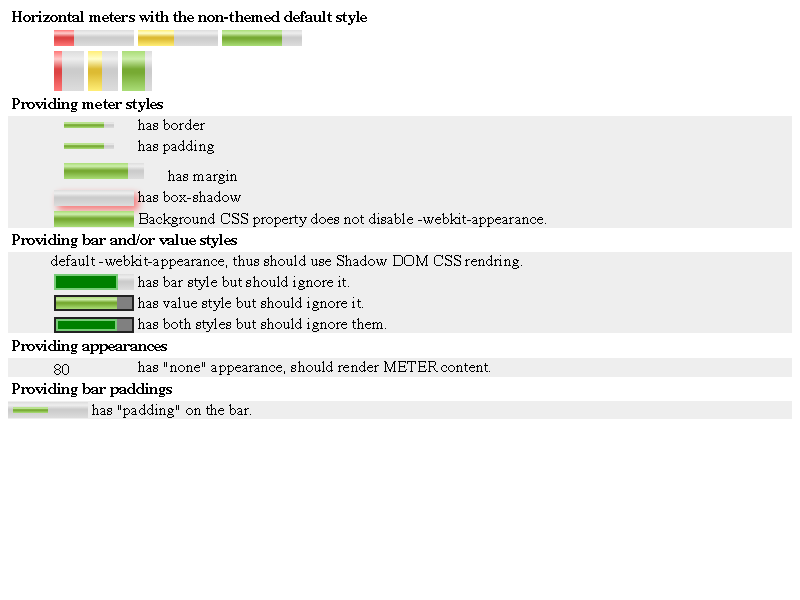
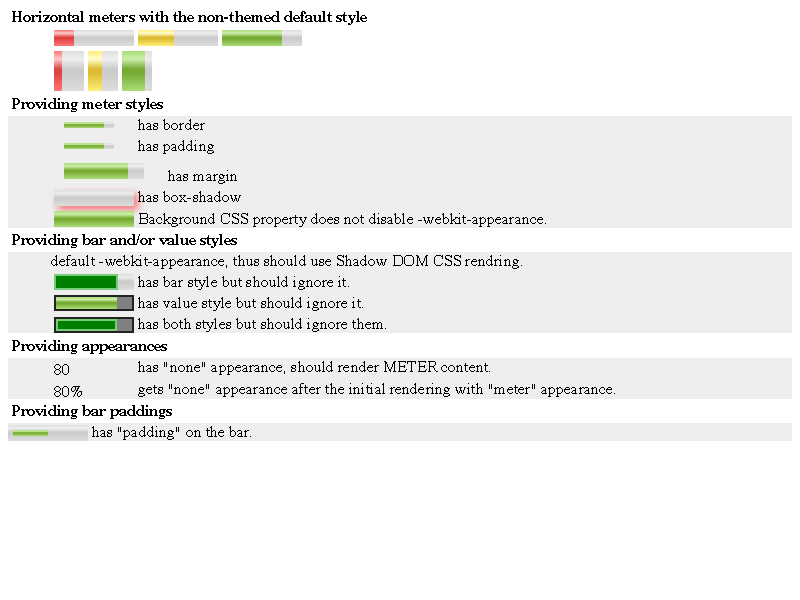
Introduce :-internal-shadow-host-has-appearance pseudo class, and apply it to METER element.
:-internal-shadow-host-has-appearance pseudo class matches to a shadow element if
  - it is in User-Agent ShadowRoot, and
  - its shadow host has -webkit-appearance value other than "none".
This class is available only in UA stylesheets.

Also, this CL adds PseudoBlinkInternalElement.  It's similar to
PseudoWebKitCustomElement.  Their differences are:
 - Pseudo ID of PseudoBlinkInternalElement starts with "-internal-".
 - ::-internal-* selectors are available only in UA stylesheets.

METER's fallback element uses PseudoBlinkInternalElement in order to avoid to
expose new vendor-specific elements.

This CL has no user-visible behavior changes.

BUG=609669

Review-Url: https://codereview.chromium.org/1958073002
Cr-Original-Commit-Position: refs/heads/master@{#393779}
Cr-Mirrored-From: https://chromium.googlesource.com/chromium/src
Cr-Mirrored-Commit: 19b50f20c2da2f0f3efddd91e3df57ba4a4e8b15

Changed region(s): [[0.0, 0.63, 0.75, 0.75]]

diff --git a/WebKit/LayoutTests/fast/dom/HTMLMeterElement/meter-styles.html b/WebKit/LayoutTests/fast/dom/HTMLMeterElement/meter-styles.html
@@ -1,9 +1,6 @@
+<!DOCTYPE html>
 <html>
 <head>
-<script>
-if (window.testRunner)
-    testRunner.notifyDone();
-</script>
 <style>
   meter.tall { width: 30px; height: 40px; }
   ul, h2, p { margin: 0.2em; }
@@ -48,6 +45,7 @@ if (window.testRunner)
   <div style="background-color: #eee">
   <ul>
     <li><meter style="-webkit-appearance: none" min="0" max="100" low="30" high="60" optimum="100" value="80" >80</meter> has "none" appearance, should render METER content.</li> 
+    <li><meter id="appearanceNoneLater" min="0" max="100" low="30" high="60" optimum="100" value="80" >80%</meter> gets "none" appearance after the initial rendering with "meter" appearance.</li>
   </ul>
   </div>
   <h2>Providing bar paddings</h2>
@@ -55,5 +53,11 @@ if (window.testRunner)
     <meter id="bar-paddings" min="0" max="100" low="30" high="60" optimum="50" value="50" ></meter> has "padding" on the bar.
   </ul>
   </div>
+<script>
+var noneLater = document.getElementById('appearanceNoneLater');
+noneLater.offsetLeft; // Force layout.
+noneLater.setAttribute('style', '-webkit-appearance:none');
+noneLater.offsetLeft; // Force layout.
+</script>
 </body>
 </html>

diff --git a/WebKit/Source/core/css/html.css b/WebKit/Source/core/css/html.css
@@ -851,9 +851,18 @@ meter {
 meter::-webkit-meter-inner-element {
     -webkit-appearance: inherit;
     box-sizing: inherit;
+    display: none;
     -webkit-user-modify: read-only !important;
     height: 100%;
     width: 100%;
+}
+
+meter::-webkit-meter-inner-element:-internal-shadow-host-has-appearance {
+    display: block;
+}
+
+meter::-internal-fallback:-internal-shadow-host-has-appearance {
+    display: none;
 }
 
 meter::-webkit-meter-bar {

diff --git a/WebKit/Source/core/css/CSSSelector.cpp b/WebKit/Source/core/css/CSSSelector.cpp
@@ -252,6 +252,7 @@ PseudoId CSSSelector::pseudoId(PseudoType type)
     case PseudoInRange:
     case PseudoOutOfRange:
     case PseudoWebKitCustomElement:
+    case PseudoBlinkInternalElement:
     case PseudoCue:
     case PseudoFutureCue:
     case PseudoPastCue:
@@ -264,6 +265,7 @@ PseudoId CSSSelector::pseudoId(PseudoType type)
     case PseudoFullScreenAncestor:
     case PseudoSpatialNavigationFocus:
     case PseudoListBox:
+    case PseudoHostHasAppearance:
     case PseudoSlotted:
         return PseudoIdNone;
     }
@@ -290,6 +292,7 @@ const static NameToPseudoStruct pseudoTypeWithoutArgumentsMap[] = {
 {"-internal-media-controls-text-track-list-item-input", CSSSelector::PseudoWebKitCustomElement},
 {"-internal-media-controls-text-track-list-kind-captions", CSSSelector::PseudoWebKitCustomElement},
 {"-internal-media-controls-text-track-list-kind-subtitles", CSSSelector::PseudoWebKitCustomElement},
+{"-internal-shadow-host-has-appearance", CSSSelector::PseudoHostHasAppearance},
 {"-internal-spatial-navigation-focus", CSSSelector::PseudoSpatialNavigationFocus},
 {"-webkit-any-link",              CSSSelector::PseudoAnyLink},
 {"-webkit-autofill",              CSSSelector::PseudoAutofill},
@@ -453,6 +456,8 @@ CSSSelector::PseudoType CSSSelector::parsePseudoType(const AtomicString& name, b
 
     if (name.startsWith("-webkit-"))
         return PseudoWebKitCustomElement;
+    if (name.startsWith("-internal-"))
+        return PseudoBlinkInternalElement;
 
     return PseudoUnknown;
 }
@@ -486,6 +491,7 @@ void CSSSelector::updatePseudoType(const AtomicString& value, bool hasArguments)
     case PseudoScrollbarTrackPiece:
     case PseudoSelection:
     case PseudoWebKitCustomElement:
+    case PseudoBlinkInternalElement:
     case PseudoContent:
     case PseudoShadow:
     case PseudoSlotted:
@@ -522,6 +528,7 @@ void CSSSelector::updatePseudoType(const AtomicString& value, bool hasArguments)
     case PseudoHorizontal:
     case PseudoHost:
     case PseudoHostContext:
+    case PseudoHostHasAppearance:
     case PseudoHover:
     case PseudoInRange:
     case PseudoIncrement:
@@ -804,6 +811,7 @@ static bool validateSubSelector(const CSSSelector* selector)
     case CSSSelector::PseudoNot:
     case CSSSelector::PseudoSpatialNavigationFocus:
     case CSSSelector::PseudoListBox:
+    case CSSSelector::PseudoHostHasAppearance:
         return true;
     default:
         return false;

diff --git a/WebKit/Source/core/css/SelectorChecker.cpp b/WebKit/Source/core/css/SelectorChecker.cpp
@@ -917,6 +917,16 @@ bool SelectorChecker::checkPseudoClass(const SelectorCheckingContext& context, M
         return m_isUARule && matchesSpatialNavigationFocusPseudoClass(element);
     case CSSSelector::PseudoListBox:
         return m_isUARule && matchesListBoxPseudoClass(element);
+    case CSSSelector::PseudoHostHasAppearance:
+        if (!m_isUARule)
+            return false;
+        if (ShadowRoot* root = element.containingShadowRoot()) {
+            if (root->type() != ShadowRootType::UserAgent)
+                return false;
+            const ComputedStyle* style = root->host()->computedStyle();
+            return style && style->hasAppearance();
+        }
+        return false;
     case CSSSelector::PseudoWindowInactive:
         if (!context.hasSelectionPseudo)
             return false;
@@ -965,6 +975,12 @@ bool SelectorChecker::checkPseudoElement(const SelectorCheckingContext& context,
                 return root->type() == ShadowRootType::UserAgent && element.shadowPseudoId() == selector.value();
             return false;
         }
+    case CSSSelector::PseudoBlinkInternalElement:
+        if (!m_isUARule)
+            return false;
+        if (ShadowRoot* root = element.containingShadowRoot())
+            return root->type() == ShadowRootType::UserAgent && element.shadowPseudoId() == selector.value();
+        return false;
     case CSSSelector::PseudoSlotted:
         {
             SelectorCheckingContext subContext(context);

diff --git a/WebKit/Source/core/css/RuleFeature.cpp b/WebKit/Source/core/css/RuleFeature.cpp
@@ -143,6 +143,7 @@ bool supportsInvalidation(CSSSelector::PseudoType type)
     case CSSSelector::PseudoInRange:
     case CSSSelector::PseudoOutOfRange:
     case CSSSelector::PseudoWebKitCustomElement:
+    case CSSSelector::PseudoBlinkInternalElement:
     case CSSSelector::PseudoCue:
     case CSSSelector::PseudoFutureCue:
     case CSSSelector::PseudoPastCue:
@@ -152,6 +153,7 @@ bool supportsInvalidation(CSSSelector::PseudoType type)
     case CSSSelector::PseudoShadow:
     case CSSSelector::PseudoSpatialNavigationFocus:
     case CSSSelector::PseudoListBox:
+    case CSSSelector::PseudoHostHasAppearance:
     case CSSSelector::PseudoSlotted:
         return true;
     case CSSSelector::PseudoUnknown:
@@ -296,7 +298,7 @@ bool RuleFeatureSet::extractInvalidationSetFeature(const CSSSelector& selector, 
         features.attributes.append(selector.attribute().localName());
         return true;
     }
-    if (selector.getPseudoType() == CSSSelector::PseudoWebKitCustomElement) {
+    if (selector.getPseudoType() == CSSSelector::PseudoWebKitCustomElement || selector.getPseudoType() == CSSSelector::PseudoBlinkInternalElement) {
         features.customPseudoElement = true;
         return true;
     }

diff --git a/WebKit/Source/core/html/HTMLMeterElement.cpp b/WebKit/Source/core/html/HTMLMeterElement.cpp
@@ -30,7 +30,6 @@
 #include "core/html/HTMLContentElement.h"
 #include "core/html/HTMLDivElement.h"
 #include "core/html/parser/HTMLParserIdioms.h"
-#include "core/html/shadow/AppearanceSwitchElement.h"
 #include "core/layout/LayoutObject.h"
 #include "core/style/ComputedStyle.h"
 
@@ -195,7 +194,7 @@ void HTMLMeterElement::didAddUserAgentShadowRoot(ShadowRoot& root)
 {
     ASSERT(!m_value);
 
-    AppearanceSwitchElement* inner = AppearanceSwitchElement::create(document(), AppearanceSwitchElement::ShowIfHostHasAppearance);
+    HTMLDivElement* inner = HTMLDivElement::create(document());
     inner->setShadowPseudoId(AtomicString("-webkit-meter-inner-element"));
     root.appendChild(inner);
 
@@ -208,8 +207,9 @@ void HTMLMeterElement::didAddUserAgentShadowRoot(ShadowRoot& root)
 
     inner->appendChild(bar);
 
-    AppearanceSwitchElement* fallback = AppearanceSwitchElement::create(document(), AppearanceSwitchElement::ShowIfHostHasNoAppearance);
+    HTMLDivElement* fallback = HTMLDivElement::create(document());
     fallback->appendChild(HTMLContentElement::create(document()));
+    fallback->setShadowPseudoId(AtomicString("-internal-fallback"));
     root.appendChild(fallback);
 }
 

diff --git a/WebKit/Source/core/css/parser/CSSParserSelector.h b/WebKit/Source/core/css/parser/CSSParserSelector.h
@@ -61,7 +61,7 @@ public:
     CSSSelector::PseudoType pseudoType() const { return m_selector->getPseudoType(); }
     const CSSSelectorList* selectorList() const { return m_selector->selectorList(); }
 
-    bool needsImplicitShadowCombinatorForMatching() const { return pseudoType() == CSSSelector::PseudoWebKitCustomElement || pseudoType() == CSSSelector::PseudoCue || pseudoType() == CSSSelector::PseudoShadow || pseudoType() == CSSSelector::PseudoSlotted; }
+    bool needsImplicitShadowCombinatorForMatching() const { return pseudoType() == CSSSelector::PseudoWebKitCustomElement || pseudoType() == CSSSelector::PseudoBlinkInternalElement || pseudoType() == CSSSelector::PseudoCue || pseudoType() == CSSSelector::PseudoShadow || pseudoType() == CSSSelector::PseudoSlotted; }
 
     bool isSimple() const;
 

diff --git a/WebKit/Source/core/inspector/InspectorTraceEvents.cpp b/WebKit/Source/core/inspector/InspectorTraceEvents.cpp
@@ -144,6 +144,7 @@ const char* pseudoTypeToString(CSSSelector::PseudoType pseudoType)
         DEFINE_STRING_MAPPING(PseudoInRange)
         DEFINE_STRING_MAPPING(PseudoOutOfRange)
         DEFINE_STRING_MAPPING(PseudoWebKitCustomElement)
+        DEFINE_STRING_MAPPING(PseudoBlinkInternalElement)
         DEFINE_STRING_MAPPING(PseudoCue)
         DEFINE_STRING_MAPPING(PseudoFutureCue)
         DEFINE_STRING_MAPPING(PseudoPastCue)
@@ -155,6 +156,7 @@ const char* pseudoTypeToString(CSSSelector::PseudoType pseudoType)
         DEFINE_STRING_MAPPING(PseudoSlotted)
         DEFINE_STRING_MAPPING(PseudoSpatialNavigationFocus)
         DEFINE_STRING_MAPPING(PseudoListBox)
+        DEFINE_STRING_MAPPING(PseudoHostHasAppearance)
 #undef DEFINE_STRING_MAPPING
     }
 

diff --git a/WebKit/Source/core/css/CSSSelector.h b/WebKit/Source/core/css/CSSSelector.h
@@ -193,7 +193,10 @@ public:
         PseudoFullScreenAncestor,
         PseudoInRange,
         PseudoOutOfRange,
+        // Pseudo elements in UA ShadowRoots. Available in any stylesheets.
         PseudoWebKitCustomElement,
+        // Pseudo elements in UA ShadowRoots. Availble only in UA stylesheets.
+        PseudoBlinkInternalElement,
         PseudoCue,
         PseudoFutureCue,
         PseudoPastCue,
@@ -204,6 +207,7 @@ public:
         PseudoShadow,
         PseudoSpatialNavigationFocus,
         PseudoListBox,
+        PseudoHostHasAppearance,
         PseudoSlotted
     };
 

diff --git a/WebKit/Source/core/dom/Element.cpp b/WebKit/Source/core/dom/Element.cpp
@@ -2765,7 +2765,7 @@ const AtomicString& Element::shadowPseudoId() const
 
 void Element::setShadowPseudoId(const AtomicString& id)
 {
-    DCHECK_EQ(CSSSelector::parsePseudoType(id, false), CSSSelector::PseudoWebKitCustomElement);
+    DCHECK(CSSSelector::parsePseudoType(id, false) == CSSSelector::PseudoWebKitCustomElement || CSSSelector::parsePseudoType(id, false) == CSSSelector::PseudoBlinkInternalElement);
     setAttribute(pseudoAttr, id);
 }
 

diff --git a/WebKit/Source/core/dom/Element.h b/WebKit/Source/core/dom/Element.h
@@ -450,6 +450,9 @@ public:
     virtual String defaultToolTip() const { return String(); }
 
     virtual const AtomicString& shadowPseudoId() const;
+    // The specified string must start with "-webkit-" or "-internal-". The
+    // former can be used as a selector in any places, and the latter can be
+    // used only in UA stylesheet.
     void setShadowPseudoId(const AtomicString&);
 
     LayoutSize minimumSizeForResizing() const;

diff --git a/WebKit/Source/core/css/RuleSet.cpp b/WebKit/Source/core/css/RuleSet.cpp
@@ -144,7 +144,7 @@ static void extractValuesforSelector(const CSSSelector* selector, AtomicString& 
     default:
         break;
     }
-    if (selector->getPseudoType() == CSSSelector::PseudoWebKitCustomElement)
+    if (selector->getPseudoType() == CSSSelector::PseudoWebKitCustomElement || selector->getPseudoType() == CSSSelector::PseudoBlinkInternalElement)
         customPseudoElementName = selector->value();
 }
 
